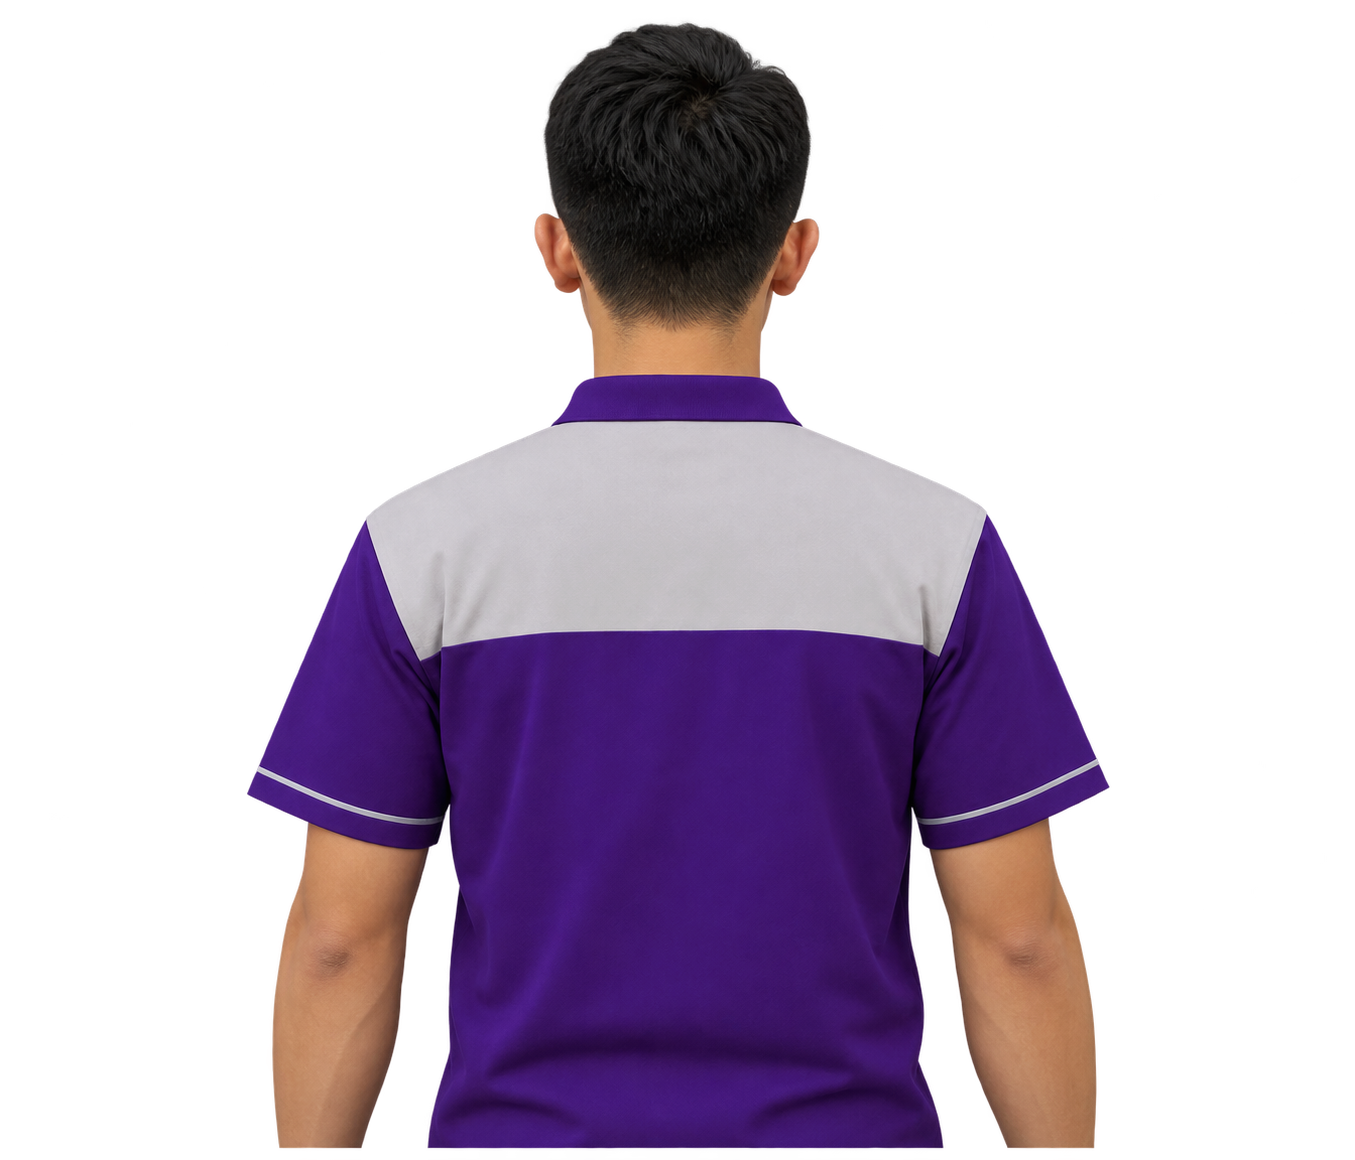
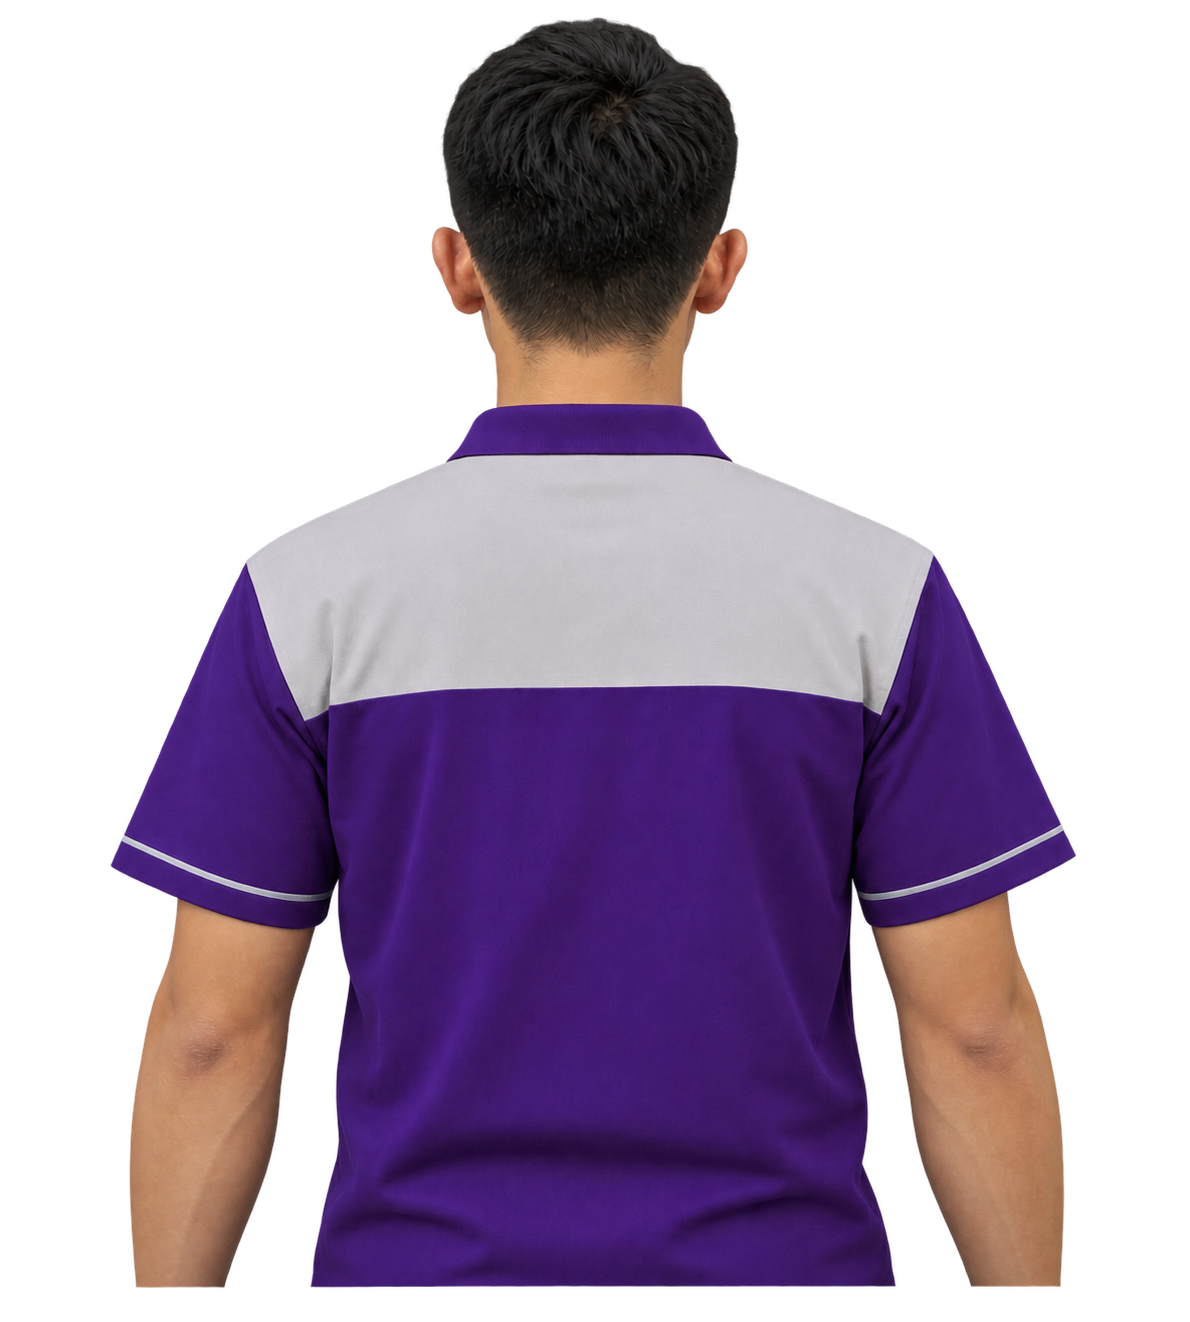
店員背面照換成跟正面同尺寸的新版本(1190×1322),兩張比例終於對齊
kc 重生了一張跟正面完全同尺寸的背面照,轉身不會再因為長寬比不同而變形。

Claude-Session: https://claude.ai/code/session_01KDytCjS5J8dEHdv3WH5DjK

Changed region(s): [[0.0933, 0.0, 0.9017, 0.9931]]

diff --git a/prototypes/game.html b/prototypes/game.html
@@ -2592,7 +2592,7 @@ hotImg.src = '../assets/bg/store-hot-cabinet.png';
 const clerkFrontImg = new Image(); clerkFrontImg.onload = paintStoreBackdrop;
 clerkFrontImg.src = '../assets/bg/clerk-front.png?v=8';
 const clerkBackImg = new Image(); clerkBackImg.onload = paintStoreBackdrop;
-clerkBackImg.src = '../assets/bg/clerk-back.png?v=5';
+clerkBackImg.src = '../assets/bg/clerk-back.png?v=6';
 
 /* 牆面家具(飲料櫃/貨架/櫃台)都已經畫進 `store-front.png` 這張整合背景圖
    裡,不再是 3D 物件、不需要幾何/材質。碰撞邊界直接用既有的 px 座標算,
